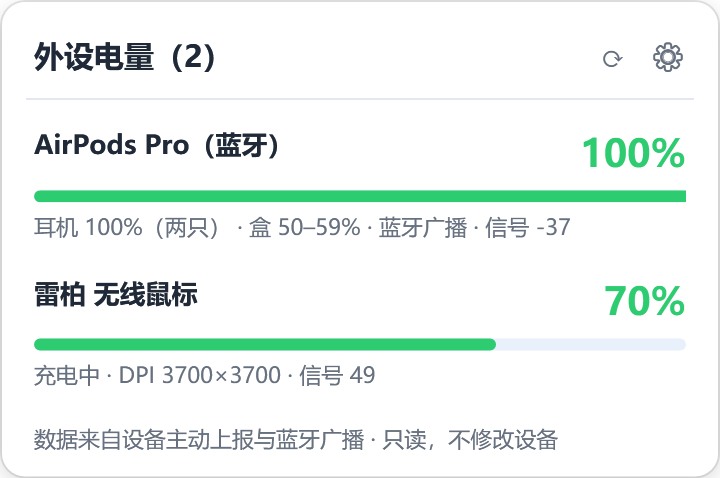
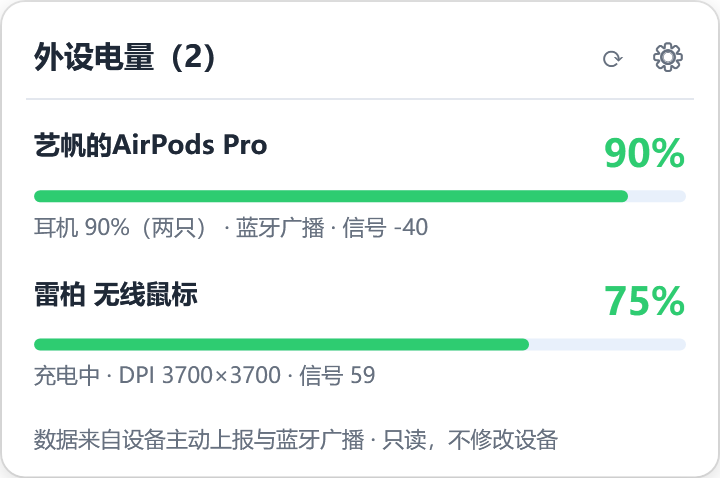
feat: 用「本机已连接」作为蓝牙耳机闸门（V0.2.1）
用户提出「只显示这台电脑连着的 AirPods」。精确匹配做不到：
广播地址每轮随机，要解析成身份地址需要 IRK 密钥（系统级数据，普通程序取不到）。

改用连接状态做闸门：
- 每 5 秒查一次已配对设备里有没有「已连接」的苹果音频设备（AirPods/Beats/HomePod）
- 未连接：整条隐藏，不再显示任何广播电量（避免显示隔壁工位的耳机）
- 已连接：展示信号最强的那条广播，标题直接用系统里的配对名（如「艺帆的AirPods Pro」）
- 断开后 5 秒内从面板移除

实测：启动 0.17 秒即读到「蓝牙耳机已连接: 艺帆的AirPods Pro」，
面板标题随之变为真实设备名。

diff --git a/src/App/BtBattery.cs b/src/App/BtBattery.cs
@@ -23,6 +23,83 @@ namespace PeripheralBattery;
 /// 局限：广播不含设备唯一身份（蓝牙地址每轮随机），附近有多副同款时无法精确区分，
 /// 只能锁定信号最强的那副；界面标注"蓝牙广播"，信号强度一并显示供核对。
 /// </summary>
+
+/// <summary>
+/// 判断"本机是否连着一副苹果耳机"。广播地址每轮随机，无法与已配对设备精确对应
+/// （那需要 IRK 密钥，属系统级数据），因此改用这条连接状态作为闸门：
+/// 只有电脑确实连着 AirPods 时才展示广播电量，避免在你没连耳机时显示隔壁的耳机。
+/// </summary>
+internal sealed class BtLinkState : IDisposable
+{
+    private readonly object _gate = new();
+    private readonly System.Threading.Timer _timer;
+    private bool _connected;
+    private string _name = "";
+    private bool _refreshing;
+
+    public BtLinkState()
+    {
+        _timer = new System.Threading.Timer(_ => Refresh(), null, 0, 5000);
+    }
+
+    public bool IsConnected { get { lock (_gate) return _connected; } }
+    public string DeviceName { get { lock (_gate) return _name; } }
+
+    private async void Refresh()
+    {
+        if (_refreshing) return;
+        _refreshing = true;
+        try
+        {
+            string found = "";
+            var infos = await Windows.Devices.Enumeration.DeviceInformation.FindAllAsync(
+                BluetoothDevice.GetDeviceSelector());
+
+            foreach (var info in infos)
+            {
+                if (!LooksLikeAppleAudio(info.Name)) continue;
+                BluetoothDevice? bt = null;
+                try { bt = await BluetoothDevice.FromIdAsync(info.Id); } catch { }
+                if (bt?.ConnectionStatus == BluetoothConnectionStatus.Connected)
+                {
+                    found = CleanName(bt.Name);
+                    break;
+                }
+            }
+
+            bool changed;
+            lock (_gate)
+            {
+                changed = _connected != (found.Length > 0) || _name != found;
+                _connected = found.Length > 0;
+                _name = found;
+            }
+            if (changed) Log.Info(found.Length > 0 ? $"蓝牙耳机已连接: {found}" : "蓝牙耳机未连接，暂停展示广播电量");
+        }
+        catch (Exception ex)
+        {
+            Log.Warn("查询蓝牙连接状态失败: " + ex.Message);
+        }
+        finally
+        {
+            _refreshing = false;
+        }
+    }
+
+    private static bool LooksLikeAppleAudio(string name) =>
+        name.Contains("AirPods", StringComparison.OrdinalIgnoreCase) ||
+        name.Contains("Beats", StringComparison.OrdinalIgnoreCase) ||
+        name.Contains("HomePod", StringComparison.OrdinalIgnoreCase);
+
+    private static string CleanName(string name) =>
+        name.Replace(" - Find My", "", StringComparison.OrdinalIgnoreCase).Trim();
+
+    public void Dispose()
+    {
+        try { _timer.Dispose(); } catch { }
+    }
+}
+
 internal sealed class BtBatteryWatcher : IDisposable
 {
     private const short MinRssi = -60;        // 更弱的多半是邻居的设备，宁可少列也不列错
@@ -35,6 +112,7 @@ internal sealed class BtBatteryWatcher : IDisposable
     private int _publishedKey = -1;
     private readonly object _gate = new();
     private readonly System.Threading.Timer _sweepTimer;
+    private readonly BtLinkState _link;
 
     private ulong? _lockedAddress;
     private DateTime _lockedAt = DateTime.MinValue;
@@ -57,7 +135,8 @@ internal sealed class BtBatteryWatcher : IDisposable
             ScanningMode = BluetoothLEScanningMode.Active
         };
         _watcher.Received += OnReceived;
-        _sweepTimer = new System.Threading.Timer(_ => { try { Sweep(); } catch { } }, null, 10000, 10000);
+        _link = new BtLinkState();
+        _sweepTimer = new System.Threading.Timer(_ => { try { Sweep(); } catch { } }, null, 5000, 5000);
     }
 
     public void Start()
@@ -112,7 +191,8 @@ internal sealed class BtBatteryWatcher : IDisposable
                     keep = PickLocked();
                 }
 
-                if (keep != null) Publish(keep);
+                // 只有本机确实连着苹果耳机时才展示；否则可能是在显示隔壁工位那副
+                if (keep != null && _link.IsConnected) Publish(keep);
             }
         }
         catch (Exception ex)
@@ -174,7 +254,7 @@ internal sealed class BtBatteryWatcher : IDisposable
         var view = new DeviceView
         {
             Key = "bt:active",
-            Name = $"{ModelName(entry.Model)}（蓝牙）",
+            Name = _link.DeviceName is { Length: > 0 } n ? n : $"{ModelName(entry.Model)}（蓝牙）",
             SourcePath = "bluetooth-advertisement",
             Percent = percent,
             LastSeen = DateTime.Now,
@@ -214,8 +294,8 @@ internal sealed class BtBatteryWatcher : IDisposable
                 }
             }
 
-            // 一副都收不到了才从面板移除
-            if (_entries.Count == 0 && _publishedKey != -1)
+            // 断开连接或一副都收不到了，就从面板移除
+            if ((_entries.Count == 0 || !_link.IsConnected) && _publishedKey != -1)
             {
                 _publishedKey = -1;
                 _sink.RemoveExternal("bt:active");
@@ -233,6 +313,7 @@ internal sealed class BtBatteryWatcher : IDisposable
     public void Dispose()
     {
         try { _sweepTimer.Dispose(); } catch { }
+        try { _link.Dispose(); } catch { }
         try
         {
             if (_watcher.Status == BluetoothLEAdvertisementWatcherStatus.Started) _watcher.Stop();
